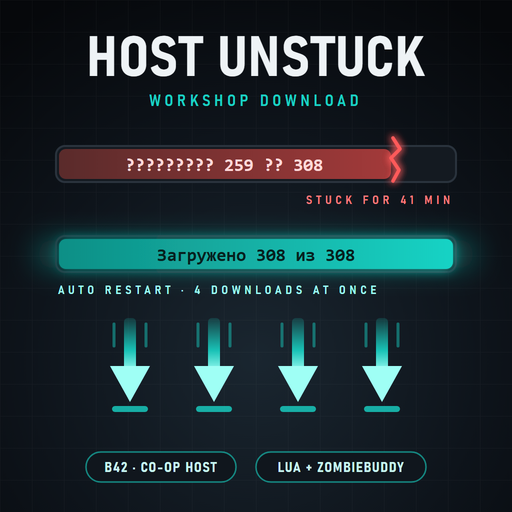
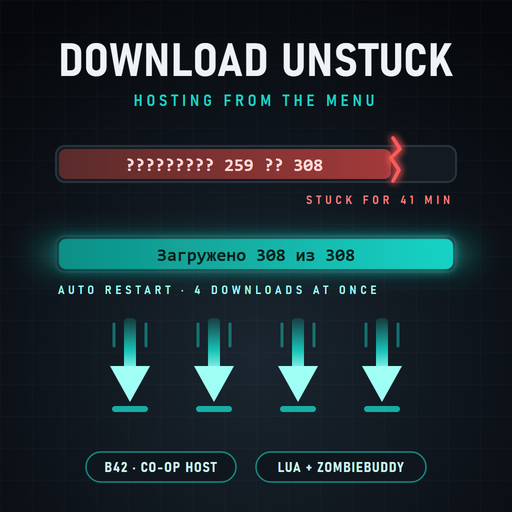
2.0.1: renamed to Download Unstuck (mod id stays HostUnstuck), tested in game, experimental wording removed; same tested jar

Changed region(s): [[0.0938, 0.0625, 0.9062, 0.2188]]

diff --git a/test/sim_test.py b/test/sim_test.py
@@ -1,4 +1,4 @@
-"""Simulation of Host Unstuck outside the game (lupa).
+"""Simulation of Download Unstuck outside the game (lupa).
 
 Stubs the handful of game globals the mod touches, loads HU_A_Core.lua + HU_B_Screen.lua, then plays scripted
 server message sequences against a fake clock and checks what the watchdog does.

diff --git a/README.md b/README.md
@@ -1,14 +1,14 @@
-# Host Unstuck
+# Download Unstuck
 
-<p align="center"><img src="docs/preview.png" alt="Host Unstuck" width="320"></p>
+<p align="center"><img src="docs/preview.png" alt="Download Unstuck" width="320"></p>
 
 **Un-sticks the "Host" screen of Project Zomboid (Build 42.21+) when the co-op server hangs while downloading Workshop mods, and (with ZombieBuddy) makes that download several times faster.**
 
-> Status: 2.0.0, experimental. The logic passed the offline simulations (`tools/build.sh`); the mod has **not yet been run in a real hosting session**. Steam Workshop: https://steamcommunity.com/sharedfiles/filedetails/?id=3829163351 . If something goes wrong, turn off "Parallel Workshop downloads" in the options and open an issue with `Zomboid/console.txt` and `coop-console.txt`.
+> Status: 2.0.1, **tested in a real hosting session: everything works** (2026-10-29, big modpack hosted from the menu, with ZombieBuddy). The logic also passes the offline simulations (`tools/build.sh`). Steam Workshop: https://steamcommunity.com/sharedfiles/filedetails/?id=3829163351 . If something goes wrong, turn off "Parallel Workshop downloads" in the options and open an issue with `Zomboid/console.txt` and `coop-console.txt`.
 
 When you host a game from the main menu with a big mod list, the server process first downloads every Workshop item into its own folder. With a few hundred mods this takes a long time, and sometimes it simply stops: the status stays on "Downloaded 259 of 308" (in Russian it shows as "????????? 259 ?? 308") forever. The only cure is to press Stop and then Start again; the new server process re-checks the installed items in a few seconds and continues from the stuck one.
 
-Host Unstuck does that for you:
+Download Unstuck does that for you:
 - watches the "Downloaded X of Y" counter; when it stops moving for 40 s (default), it presses Stop and Start itself and the download continues from the same item;
 - big items get extra time (1 s per 1.5 MB of the item being downloaded), and every restart on the same item doubles the wait, so a slow but working download is not interrupted forever; after 8 restarts (default) it gives up and names the item it was stuck on;
 - also restarts when the freshly started server does not reach the Workshop step within 120 s, or dies in the middle of it (an item that fails three times); once the counter reads "Downloaded N of N" it stands down (the server then makes a backup and sets up UPnP before its next status, which is not a stall);
@@ -17,7 +17,7 @@ Host Unstuck does that for you:
 
 **New in 2.0 (optional Java part, needs [ZombieBuddy](https://steamcommunity.com/sharedfiles/filedetails/?id=3619862853)):** the server you host gets the mod's own download loop. It requests several items from Steam at once (4 by default) instead of strictly one after another, and when nothing moves for 40 s it requests the stuck item again before anything is restarted; the server is restarted only if that does not help within 20 s, or at once when the server stops reporting for 30 s (frozen inside a Steam call, which is what the hang that started this mod was). If Steam does not start the queued downloads by itself, the loop pushes them and soon goes back to one at a time, like the game. The second line then shows what is being downloaded, how many bytes arrived and how many re-requests there were. Without ZombieBuddy everything above still works; only the two "Java" settings do nothing.
 
-Client-side. Enable it in the **main-menu** mod list (Mods) and restart the game once; the server's mod list and the other players are not involved. ZombieBuddy asks once whether to load the new jar; answer Yes. Settings: Options > Mods > Host Unstuck (auto-restart on/off, seconds without progress, maximum restarts, Workshop-step timeout, parallel downloads on/off, downloads at the same time).
+Client-side. Enable it in the **main-menu** mod list (Mods) and restart the game once; the server's mod list and the other players are not involved. ZombieBuddy asks once whether to load the new jar; answer Yes. Settings: Options > Mods > Download Unstuck (auto-restart on/off, seconds without progress, maximum restarts, Workshop-step timeout, parallel downloads on/off, downloads at the same time).
 
 <p align="center"><a href="https://boosty.to/lrgpp"><img src="docs/banner.png" alt="LrgPP mods on Boosty" width="640"></a></p>
 
@@ -37,20 +37,21 @@ How much faster the download gets is up to Steam: the game-server download path 
 `tools/build.sh` (bash; needs JDK 25 and the game) compiles the jar, assembles `dist/HostUnstuck` (the mod folder) and runs three offline tests: `SimTest` (the server loop against a fake Steam: parallel vs sequential, a serialised queue, a hung item, a Steam that starts only high-priority requests, a dead item, updates, refused downloads), `SelfTest` (the game's own JVM started like the Host screen starts the server; checks that the mod's class shadows the game's and that the hash gate passes) and `test/sim_test.py` (the Lua watchdog in lupa, 15 scenarios).
 
 ## Changes
-- **2.0.0** (2026-10-29, published on GitHub and the Steam Workshop, not yet run in the game; same build as rc2). **2.0.0-rc2**: ZombieBuddy is really optional now (rc1 listed it under `require=` in `mod.info`, so the game demanded it even for the Lua watchdog; ZombieBuddy itself loads the jar from `javaJarFile` alone). The watchdog no longer counts the server's backup/UPnP after "Downloaded N of N" as a stall. With the Java loop: a server that stops reporting for 30 s is restarted at once (the original hang was the server frozen inside a Steam call, where no re-request can help); bytes are the only progress measure (no size allowance, which with 4 items in flight could delay a restart by minutes); the server's own re-request gets 20 s before a restart; a Steam that leaves normal-priority requests waiting gets them pushed after 8 s and the loop then goes one at a time. Lines from a server process that is being killed are ignored.
+- **2.0.1** (2026-10-29): renamed from Host Unstuck to Download Unstuck (the mod id, jar and settings files stay `HostUnstuck`, so nothing has to be re-enabled or re-approved); tested in a real hosting session: everything works; "experimental" removed from the texts. The Java jar is the same tested 2.0.0 build.
+- **2.0.0** (2026-10-29, same build as rc2). **2.0.0-rc2**: ZombieBuddy is really optional now (rc1 listed it under `require=` in `mod.info`, so the game demanded it even for the Lua watchdog; ZombieBuddy itself loads the jar from `javaJarFile` alone). The watchdog no longer counts the server's backup/UPnP after "Downloaded N of N" as a stall. With the Java loop: a server that stops reporting for 30 s is restarted at once (the original hang was the server frozen inside a Steam call, where no re-request can help); bytes are the only progress measure (no size allowance, which with 4 items in flight could delay a restart by minutes); the server's own re-request gets 20 s before a restart; a Steam that leaves normal-priority requests waiting gets them pushed after 8 s and the loop then goes one at a time. Lines from a server process that is being killed are ignored.
 - **2.0.0-rc1** (2026-10-28): Java part (parallel download loop through ZombieBuddy); 1.0 Lua watchdog.
 
 ## Please note
 - This mod was made 100% with AI.
 - It was made only for playing with a friend.
-- Not yet tested in a real hosting session.
+- Tested on one PC, hosting from the main menu.
 
 ## My mods
 - [SmoothRide MP](https://steamcommunity.com/sharedfiles/filedetails/?id=3827367565) — smooth multiplayer vehicles.
 - [ZombieSync MP](https://steamcommunity.com/sharedfiles/filedetails/?id=3827946115) — smooth multiplayer zombies.
 - [Tripping Zombies MP Fix](https://steamcommunity.com/sharedfiles/filedetails/?id=3829034899) — the same Tripping Zombies trips for every player.
 - [Wandering Hordes Save Trim](https://steamcommunity.com/sharedfiles/filedetails/?id=3829140377) — no more save freezes from Wandering Hordes' wall map.
-- **Host Unstuck** — un-sticks and speeds up the Workshop download when hosting from the menu (this mod).
+- **Download Unstuck** — un-sticks and speeds up the Workshop download when hosting from the menu (this mod).
 
 ## License
 MIT License — see LICENSE file.
